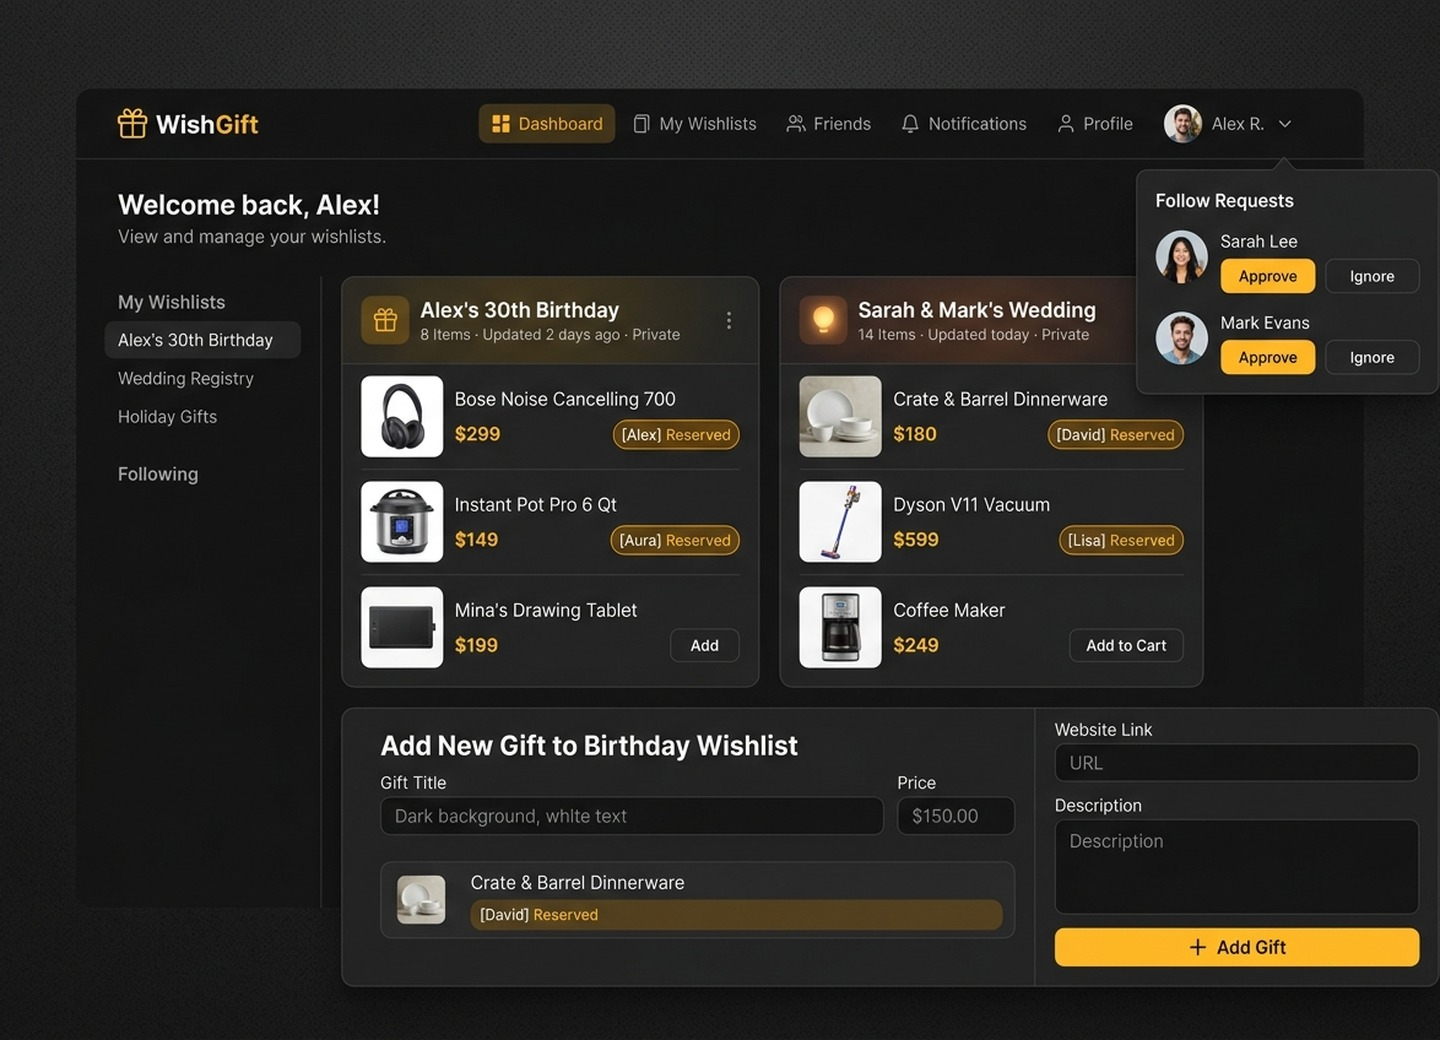
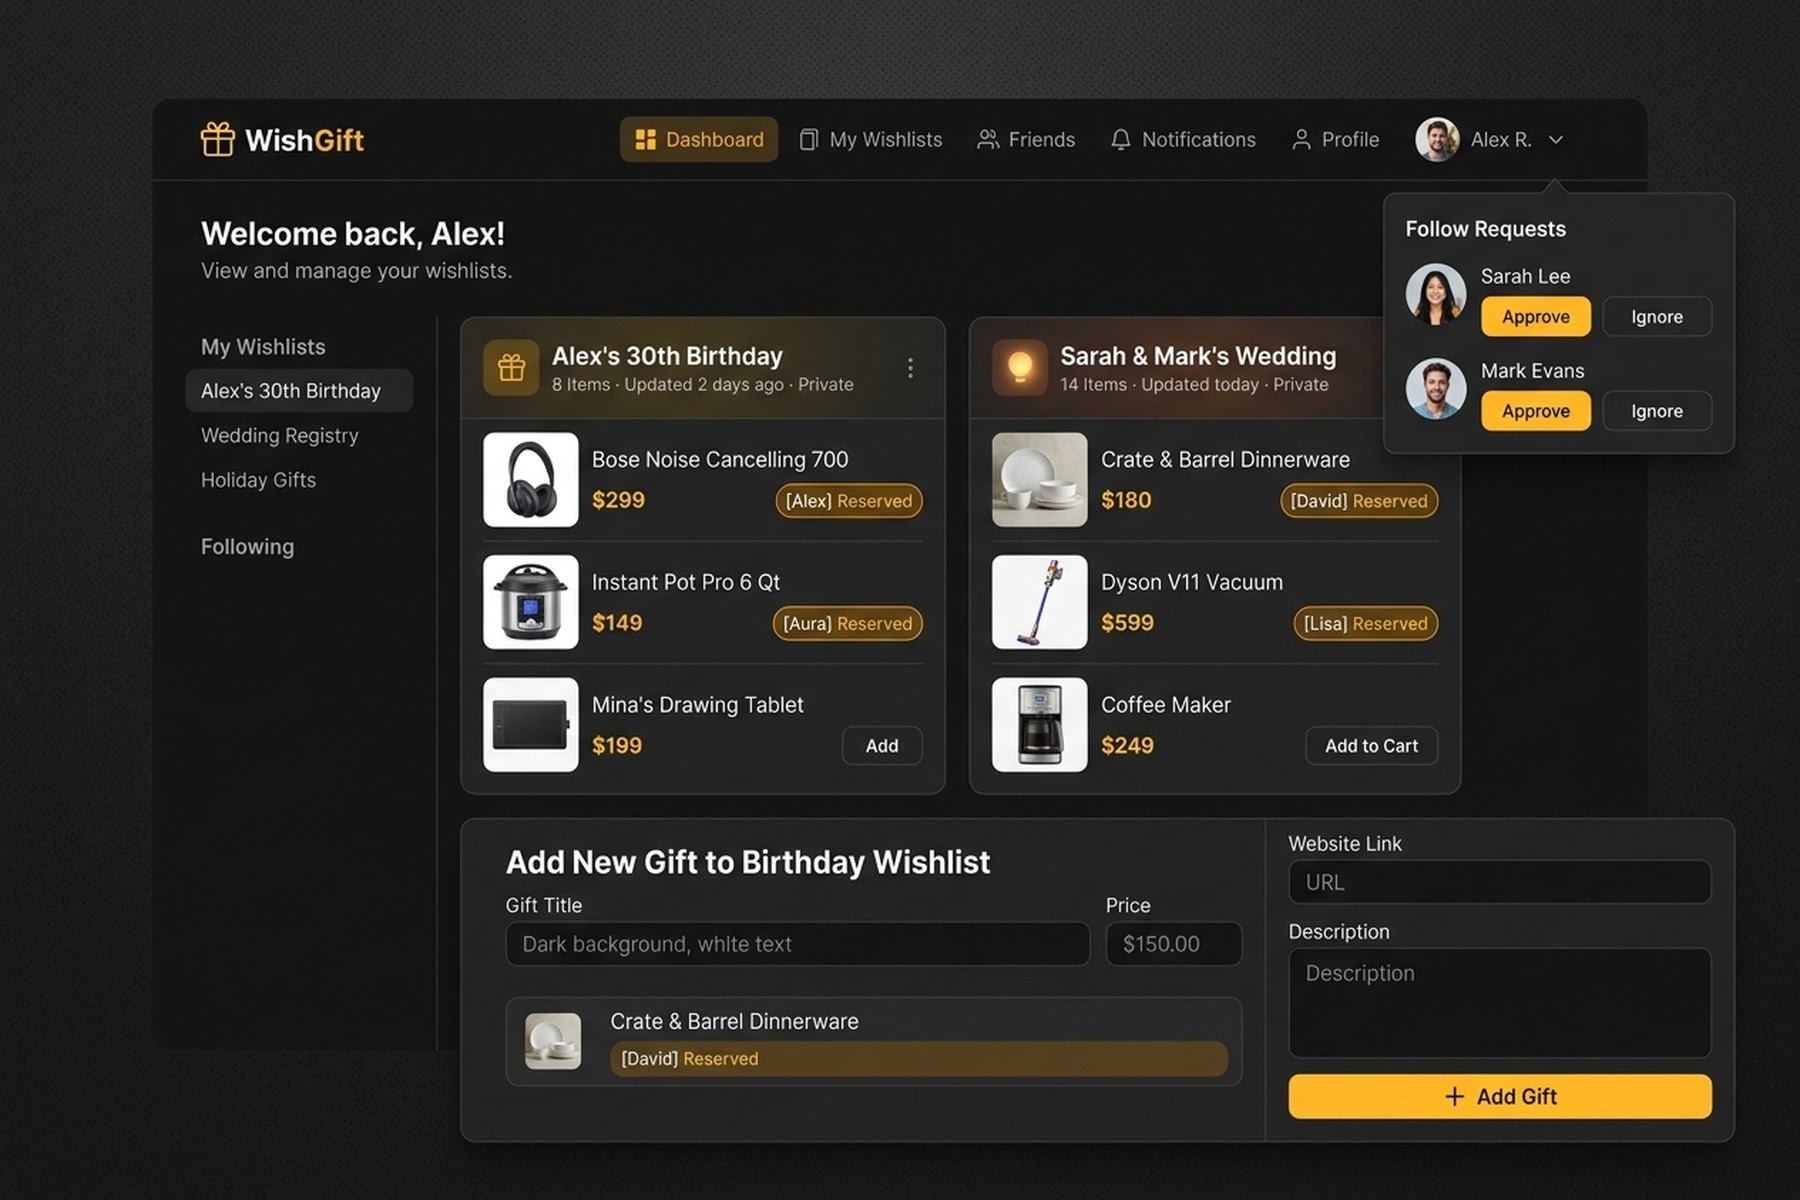
Adding Fixes

diff --git a/index.html b/index.html
@@ -105,7 +105,7 @@
       <div class="shell">
         <header class="section-head">
           <p class="eyebrow">Selected Work</p>
-          <h2>Signature builds I own end to end.</h2>
+          <h2>Five builds I own end to end.</h2>
         </header>
       </div>
       <div class="stack-wrap shell-wide">
@@ -148,51 +148,34 @@
 
         <article class="stack-card">
           <figure class="card-media">
-            <img src="assets/projects/whatsweb.webp" width="1200" height="800" alt="WhatsWeb client running on Ubuntu Touch with push notifications" loading="lazy">
-          </figure>
-          <div class="card-body">
-            <p class="card-tags">Linux Mobile · Push Notifications</p>
-            <h3 class="card-title">WhatsWeb</h3>
-            <p class="card-desc">A responsive WhatsApp Web client engineered for Linux phones, featuring a custom standalone local push notification daemon, AppArmor sandboxing, and QML download helper modules.</p>
-            <ul class="chip-row">
-              <li>QML</li><li>Python</li><li>C++</li><li>Lomiri Push</li><li>AppArmor</li>
-            </ul>
-            <div class="card-links">
-              <a class="card-link" href="https://github.com/suraj-yadav0/whatsweb" target="_blank" rel="noopener">View repository<img class="ext-ico" src="https://cdn.simpleicons.org/github/9BA0A6" width="18" height="18" alt="" loading="lazy"></a>
-            </div>
-          </div>
-        </article>
-
-        <article class="stack-card">
-          <figure class="card-media">
-            <img src="assets/projects/redditclient.webp" width="1200" height="800" alt="Native Reddit client interface for Ubuntu Touch Linux phone" loading="lazy">
-          </figure>
-          <div class="card-body">
-            <p class="card-tags">Ubuntu Touch · Open Source</p>
-            <h3 class="card-title">Reddit Client</h3>
-            <p class="card-desc">A native Reddit experience for Linux phones: gesture navigation, threaded comments, voting and subreddit management on a Python backend.</p>
-            <ul class="chip-row">
-              <li>QML</li><li>Python</li><li>Reddit API</li><li>GPL v3</li>
-            </ul>
-            <div class="card-links">
-              <a class="card-link" href="https://github.com/suraj-yadav0/redditclient" target="_blank" rel="noopener">View repository<img class="ext-ico" src="https://cdn.simpleicons.org/github/9BA0A6" width="18" height="18" alt="" loading="lazy"></a>
-            </div>
-          </div>
-        </article>
-
-        <article class="stack-card">
-          <figure class="card-media">
             <img src="assets/projects/timemanagement.webp" width="1200" height="800" alt="Enterprise Time Management timesheet tracking and Odoo ERP sync interface" loading="lazy">
           </figure>
           <div class="card-body">
             <p class="card-tags">Enterprise · Odoo Integration</p>
             <h3 class="card-title">Time Management</h3>
-            <p class="card-desc">Timesheets, task tracking and project sync for Ubuntu Touch, wired into Odoo through REST APIs across multiple server instances.</p>
+            <p class="card-desc">Timesheets, task tracking and project sync for Ubuntu Touch and desktop, wired into Odoo through REST APIs across multiple server instances.</p>
             <ul class="chip-row">
-              <li>QML</li><li>Odoo REST</li><li>Python</li>
+              <li>QML</li><li>Odoo REST</li><li>Python</li><li>Lomiri</li>
             </ul>
             <div class="card-links">
               <a class="card-link" href="https://github.com/CITOpenRep/timemanagement" target="_blank" rel="noopener">View repository<img class="ext-ico" src="https://cdn.simpleicons.org/github/9BA0A6" width="18" height="18" alt="" loading="lazy"></a>
+            </div>
+          </div>
+        </article>
+
+        <article class="stack-card">
+          <figure class="card-media">
+            <img src="assets/projects/wishgift.webp" width="1200" height="800" alt="WishGift full-stack collaborative wishlist platform interface" loading="lazy">
+          </figure>
+          <div class="card-body">
+            <p class="card-tags">Full-Stack Web · Social Gifting</p>
+            <h3 class="card-title">WishGift</h3>
+            <p class="card-desc">Full-stack wishlist and social gifting platform built with Next.js 16, React 19, and Prisma. Users curate wishlists, reserve items in real-time, and manage follower requests across a serverless database architecture.</p>
+            <ul class="chip-row">
+              <li>Next.js 16</li><li>React 19</li><li>Tailwind v4</li><li>Prisma</li><li>Zustand</li>
+            </ul>
+            <div class="card-links">
+              <a class="card-link" href="https://github.com/suraj-yadav0/wishgift" target="_blank" rel="noopener">View repository<img class="ext-ico" src="https://cdn.simpleicons.org/github/9BA0A6" width="18" height="18" alt="" loading="lazy"></a>
             </div>
           </div>
         </article>
@@ -204,9 +187,9 @@
           <div class="card-body">
             <p class="card-tags">GNOME Desktop · Shell Extension</p>
             <h3 class="card-title">clockApp</h3>
-            <p class="card-desc">A geometric clock face for the GNOME desktop, shipped as a Shell extension with custom typography and layered visual effects.</p>
+            <p class="card-desc">A geometric clock face for the GNOME desktop, shipped as a Shell extension with custom typography, customizable positions, and layered visual effects.</p>
             <ul class="chip-row">
-              <li>JavaScript</li><li>GNOME Shell</li><li>CSS</li>
+              <li>JavaScript</li><li>GNOME Shell</li><li>CSS</li><li>GSettings</li>
             </ul>
             <div class="card-links">
               <a class="card-link" href="https://github.com/suraj-yadav0/clockApp" target="_blank" rel="noopener">View repository<img class="ext-ico" src="https://cdn.simpleicons.org/github/9BA0A6" width="18" height="18" alt="" loading="lazy"></a>
@@ -305,6 +288,16 @@
         <div class="pan-track-wrap">
           <ul class="pan-track">
             <li class="pan-card">
+              <figure><img src="assets/projects/whatsweb.webp" width="720" height="520" alt="WhatsWeb client running on Ubuntu Touch with push notifications" loading="lazy"></figure>
+              <div class="pan-meta">
+                <h3>WhatsWeb</h3>
+                <p>Responsive WhatsApp Web client for Ubuntu Touch with local push notification daemon and QML download helper.</p>
+                <div class="pan-links">
+                  <a href="https://github.com/suraj-yadav0/whatsweb" target="_blank" rel="noopener">Code</a>
+                </div>
+              </div>
+            </li>
+            <li class="pan-card">
               <figure><img src="assets/projects/harmonydocs.webp" width="720" height="520" alt="Document Harmony Indian official record consistency verification engine" loading="lazy"></figure>
               <div class="pan-meta">
                 <h3>Document Harmony</h3>
@@ -315,12 +308,12 @@
               </div>
             </li>
             <li class="pan-card">
-              <figure><img src="assets/projects/wishgift.webp" width="720" height="520" alt="WishGift full-stack wishlist web app interface" loading="lazy"></figure>
+              <figure><img src="assets/projects/redditclient.webp" width="720" height="520" alt="Native Reddit client interface for Ubuntu Touch Linux phone" loading="lazy"></figure>
               <div class="pan-meta">
-                <h3>WishGift</h3>
-                <p>Full-stack wishlists where friends reserve gifts and follow each other. Built on Next.js 16, React 19 and Prisma.</p>
+                <h3>Reddit Client</h3>
+                <p>Native Linux phone Reddit browser with gesture navigation, threaded comments, voting, and subreddit feeds.</p>
                 <div class="pan-links">
-                  <a href="https://github.com/suraj-yadav0/wishgift" target="_blank" rel="noopener">Code</a>
+                  <a href="https://github.com/suraj-yadav0/redditclient" target="_blank" rel="noopener">Code</a>
                 </div>
               </div>
             </li>
